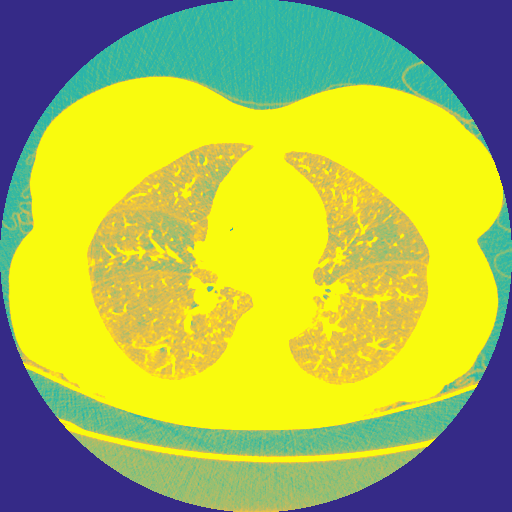
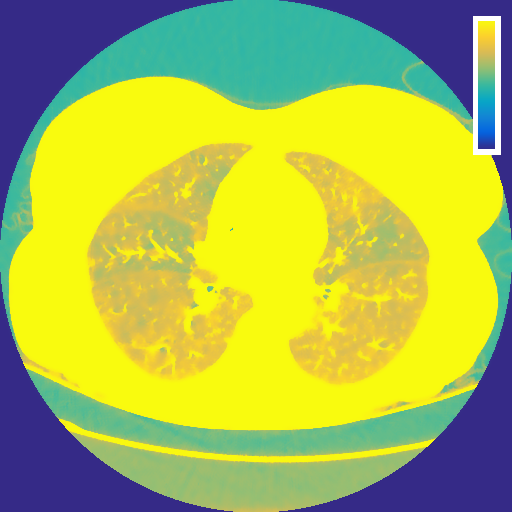
FIX

diff --git a/Lab1.py b/Lab1.py
@@ -4,6 +4,7 @@ import pylibjpeg
 import numpy as np
 import pydicom as dicom
 import nibabel as nib
+import math
 import matplotlib.pyplot as plt
 
 path_TIFF = 'cell_00077.tif'
@@ -39,16 +40,47 @@ def Extract_info(img,path,title):
     plt.savefig("log_Histogram_"+title)
     plt.clf()
 
-#Extract_info(img_TIFF,path_TIFF,"TIFF")
-#Extract_info(img_DICOM,path_DICOM,"DICOM")
-#Extract_info(img_NIfTI,path_NIfTI,"NIfTI")
+Extract_info(img_TIFF,path_TIFF,"TIFF")
+Extract_info(img_DICOM,path_DICOM,"DICOM")
+Extract_info(img_NIfTI,path_NIfTI,"NIfTI")
 
-def Window(img,lower_threshold,upper_threshold):
+'''def Window(img,lower_threshold,upper_threshold):
     img_normalized = cv.normalize(img, None, 0, 255, cv.NORM_MINMAX)
     img_subtracted = img_normalized-lower_threshold*np.ones(img.shape)
     img_multi = img_subtracted*255/(upper_threshold-lower_threshold)
     img_thresholded = np.maximum(0,np.minimum(255,img_multi))
     return img_thresholded.astype(np.uint8)
+
+def DrawColorbar(img, cmap): #Function generated by AI and modified by us to make it look better
+    margin=int(math.sqrt(img.size)//50)
+    h, w = img.shape[:2]
+    bar_h = img.shape[0]//4
+    thickness = img.shape[1]//30
+    bar_x = w - margin - thickness
+    bar_y = bar_h // 30 + margin
+
+    # gradient pionowy: góra = 255, dół = 0
+    grad = np.tile(np.arange(256, dtype=np.uint8), (bar_h, 1)).T
+    bar = cv.applyColorMap(grad, cmap)
+    bar = cv.resize(bar, (thickness, bar_h), interpolation=cv.INTER_NEAREST)
+    bar = bar[::-1]
+
+    cv.rectangle(img, (bar_x-5, bar_y-5), (bar_x + thickness+5, bar_y + bar_h+5),
+                 (255, 255, 255), -1)
+
+    img[bar_y:bar_y + bar_h, bar_x:bar_x + thickness] = bar
+
+    return img
+
+def GammaCorrection(img, gamma): #written by chatGPT
+    # Budujemy tablicę LUT (lookup table) dla wartości 0-255
+    table = np.array([
+        ((i / 255.0) ** gamma) * 255
+        for i in range(256)
+    ]).astype("uint8")
+
+    # Stosujemy LUT do obrazu
+    return cv.LUT(img, table)
 
 NIfTI_slice = img_NIfTI[100].copy()
 
@@ -56,15 +88,22 @@ original_imgs = {"NIfTI":NIfTI_slice,
                  "DICOM":img_DICOM,
                  "TIFF":img_TIFF}
 
-processed_imgs={"NIfTI":cv.applyColorMap( Window(NIfTI_slice,85,120),cv.COLORMAP_MAGMA),
-                 "DICOM":cv.applyColorMap(Window(img_DICOM,70,100),cv.COLORMAP_PARULA),
-                 "TIFF":cv.applyColorMap(Window(img_TIFF,50, 100),cv.COLORMAP_PINK)}
+
+preprocessed_imgs={"NIfTI":DrawColorbar(cv.applyColorMap(Window(NIfTI_slice,85,100),cv.COLORMAP_MAGMA),cv.COLORMAP_MAGMA),
+                 "DICOM":DrawColorbar(cv.applyColorMap(Window(img_DICOM,70,100),cv.COLORMAP_PARULA),cv.COLORMAP_PARULA),
+                 "TIFF":DrawColorbar(cv.applyColorMap(Window(img_TIFF,50, 100),cv.COLORMAP_PINK),cv.COLORMAP_PINK)}
+
+processed_imgs={"NIfTI":cv.medianBlur(preprocessed_imgs["NIfTI"],5 ),
+                 "DICOM":cv.bilateralFilter(preprocessed_imgs["DICOM"], d=9, sigmaColor=75, sigmaSpace=75),
+                 "TIFF":GammaCorrection(preprocessed_imgs["TIFF"],0.5)}
 
 for key,img in original_imgs.items():
     cv.imshow("original "+key,img)
     cv.imwrite("original "+key+".png",img)
+    cv.imshow("preprocessed "+key,preprocessed_imgs[key])
+    cv.imwrite("preprocessed "+key+".png",preprocessed_imgs[key])
     cv.imshow("processed "+key,processed_imgs[key])
-    cv.imwrite("processed "+key+".png",processed_imgs[key] )
+    cv.imwrite("processed "+key+".png",processed_imgs[key])
 
 cv.waitKey(0)
-cv.destroyAllWindows()
+cv.destroyAllWindows()'''
